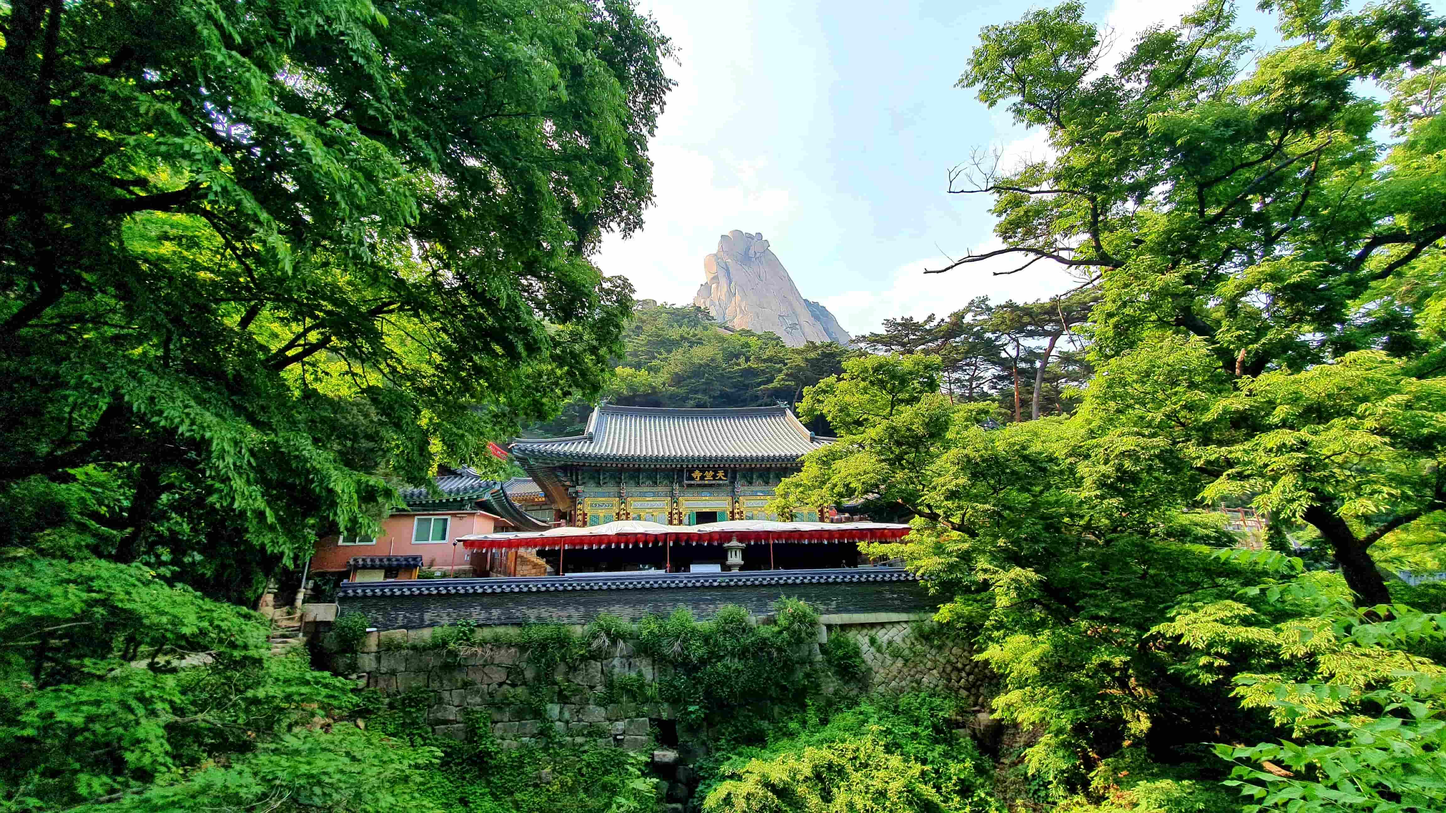
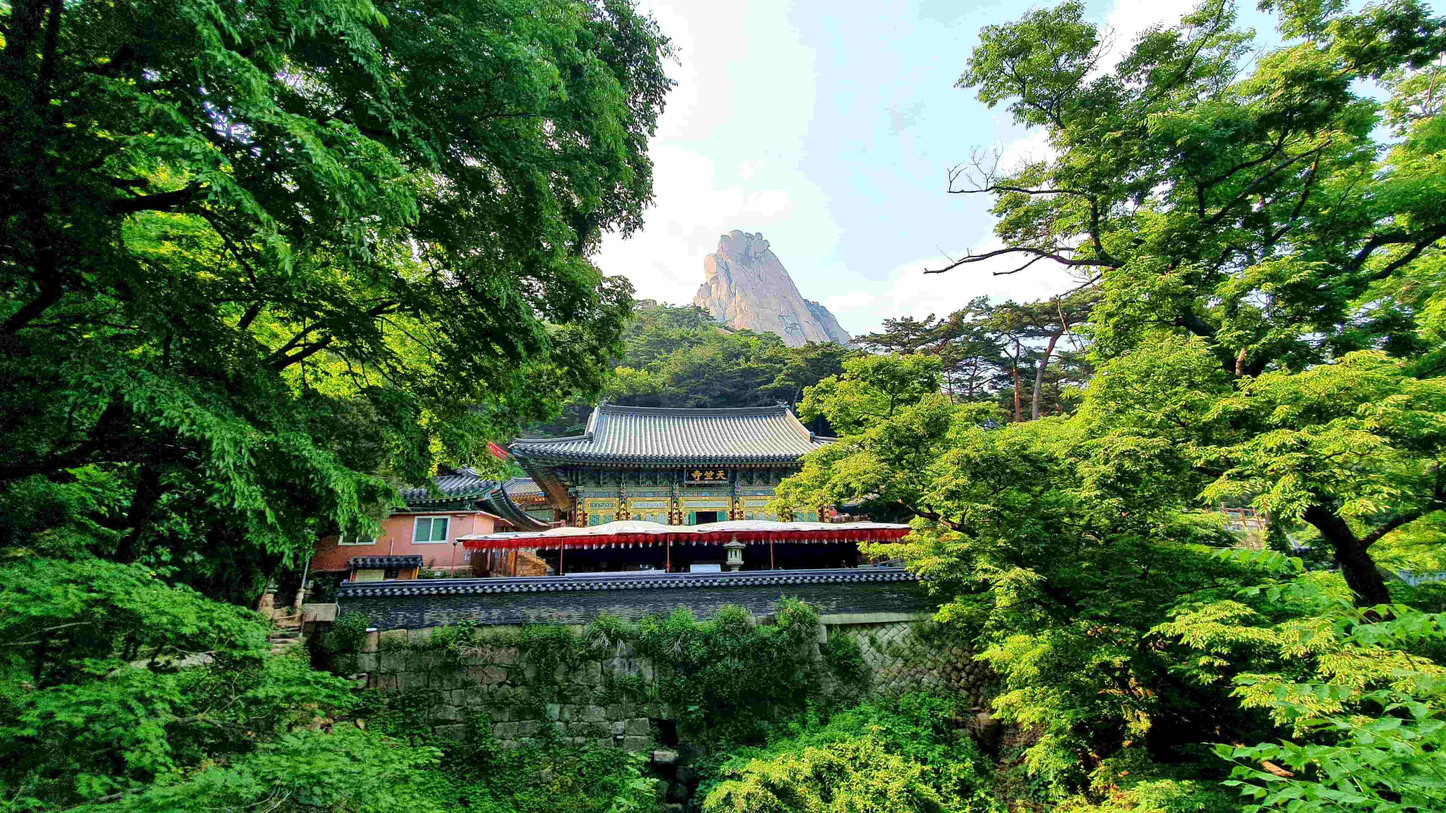
resized images for light web

diff --git a/index.html b/index.html
@@ -1249,22 +1249,6 @@
                       <h4>Freelance Work Available</h4>
                     </div>
                   </div>
-
-                  <div id="slider3">
-                    <div class="owl-carousel owl-theme">
-                      <div class="subpage-block service-block service-info">
-                        <a href="https://www.facebook.com/hungthd/">
-                          <img src="images/contact/fb.png" alt="Facebook">
-                        </a>
-                      </div>
-
-                      <div class="subpage-block service-block service-info">
-                        <a href="https://www.linkedin.com/in/truong-phuoc-hung-518b9275/">
-                          <img src="images/contact/linkedin.png" alt="LinkedIn">
-                        </a>
-                      </div>
-                    </div>
-                  </div>
                 </div>
 
                 <div class="col-sm-6 col-md-6 subpage-block">
@@ -1274,10 +1258,6 @@
                   <h4>Address in South Korea</h4>
                   <h4>Room 828 (HCI Lab), AI building, Sejong University</h4>
                   <h4>서울특별시 광진구 군자동 98 세종대학교 AI센터 828호</h4>
-
-
-
-
 
 
 <!--                  <form id="contact-form" method="post" action="#">-->
